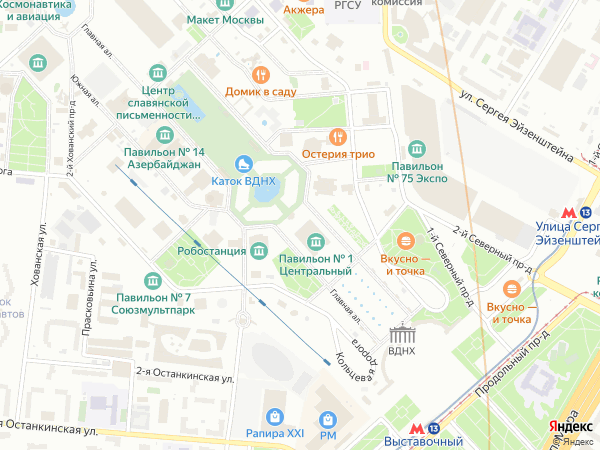
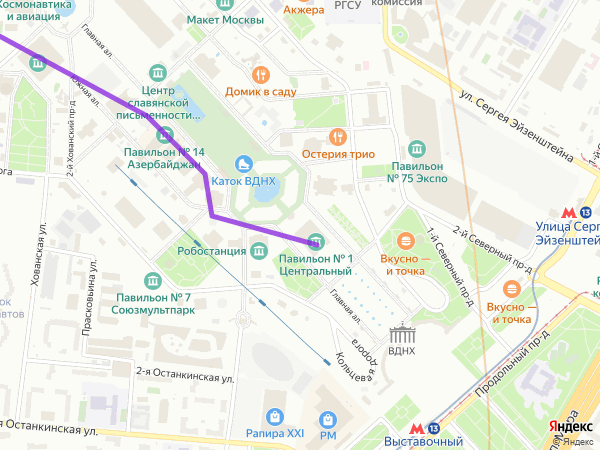
Fixed bug in creating your's route

diff --git a/templates/base.html b/templates/base.html
@@ -4,11 +4,11 @@
 <meta charset="utf-8">
 <meta name="viewport" content="width=device-width, initial-scale=1">
 <meta name="robots" content="index, follow"><link rel="canonical" href="https://bootstrap5.ru/examples/product" />
-<meta name="description" content="Экономичная маркетинговая страница, ориентированная на продукт, с обширной сеткой и изображениями.">
-<meta name="author" content="Mark Otto, Jacob Thornton, and Bootstrap contributors, Alexey Golyagin">
+<meta name="description" content=".">
+<meta name="author" content="">
 <meta name="docsearch:language" content="ru">
 <meta name="docsearch:version" content="5.0">
-<title>Бесплатный bootstrap 5 шаблон - Продукт</title>
+<title></title>
 <!-- Bootstrap core CSS -->
 <link rel="stylesheet" href="https://stackpath.bootstrapcdn.com/bootstrap/5.0.0-alpha1/css/bootstrap.min.css" integrity="sha384-r4NyP46KrjDleawBgD5tp8Y7UzmLA05oM1iAEQ17CSuDqnUK2+k9luXQOfXJCJ4I" crossorigin="anonymous">
 <link rel="stylesheet" href="https://bootstrap5.ru/css/docs.css">

diff --git a/main.py b/main.py
@@ -62,17 +62,21 @@ def creareroute():
         # point13=get_key(d,point2+"\n")
         # print(point11,point12,point13)
 
-
-        file='route_description/11.txt'
-        file=open(file,mode='w')
+        file = 'route_description/11.txt'
+        file = open(file, mode='w')
+        lines = []
         for i in routepoint:
-            file.write(i+'\t#'+'\n')
-        create_map('route_description/11.txt',spn='0.01,0.01')
+            lines.append(i + ' #')
+        line = '\n'.join(lines)
+        file.write(line)
+        file.close()
+
+        create_map('route_description/11.txt', spn='0.01,0.01')
         values = {"number": '11',
                   "file_map": "../static/" + '11' + ".png"}
         return render_template("suggested_route.html", **values)
 
-        return
+
     else:
         return render_template("createroute.html", form=form)
 
